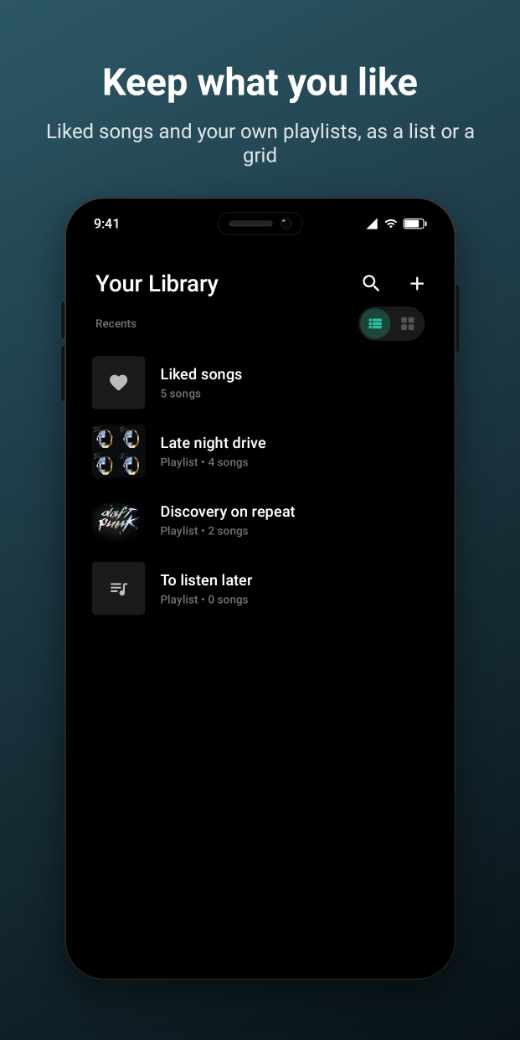
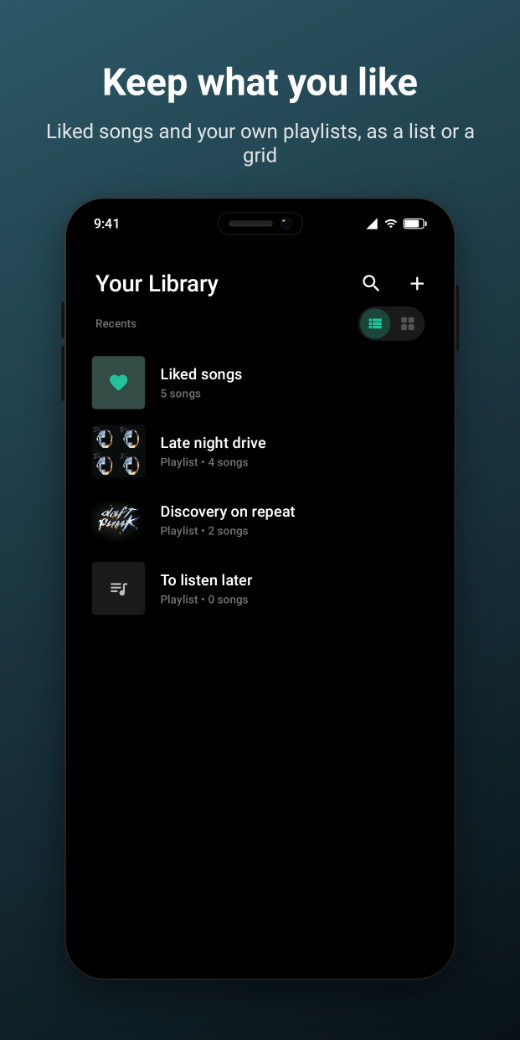
enhancement: colour the liked songs tile and sharpen the grid covers
The liked songs row had a grey heart on the same surface every playlist
uses, so the one item with no cover of its own read as a blank. It now
wears the accent container with the accent heart on it.

LibraryItemArtwork also takes the size it is drawn at: a grid cell is
about three times the width of a list row, and the 200px thumbnail a row
is happy with is visibly soft there, so the cell asks for the 600px
artwork instead.

Changed region(s): [[0.1538, 0.3385, 0.2769, 0.4]]

diff --git a/feature/library/src/main/kotlin/com/pierre/tunescout/feature/library/presentation/component/LibraryItemArtwork.kt b/feature/library/src/main/kotlin/com/pierre/tunescout/feature/library/presentation/component/LibraryItemArtwork.kt
@@ -14,6 +14,7 @@ import androidx.compose.runtime.Composable
 import androidx.compose.ui.Alignment
 import androidx.compose.ui.Modifier
 import androidx.compose.ui.draw.clip
+import androidx.compose.ui.graphics.Color
 import androidx.compose.ui.layout.ContentScale
 import androidx.compose.ui.unit.dp
 import coil3.compose.AsyncImage
@@ -24,6 +25,22 @@ import com.pierre.tunescout.ui.theme.TuneScoutColors
 
 private const val ARTWORK_CORNER_PERCENT = 8
 private const val QUADRANT_COUNT = 4
+private const val ICON_FRACTION = 0.4f
+
+/**
+ * How big the tile is drawn, which is what decides the artwork it asks Apple for: a grid cell is
+ * three times the width of a row, and the thumbnail a row is happy with is visibly soft there.
+ */
+internal enum class LibraryArtworkSize {
+    ROW,
+    CELL,
+    ;
+
+    fun getUrl(artwork: Artwork): String = when (this) {
+        ROW -> artwork.thumbnailUrl
+        CELL -> artwork.mediumUrl
+    }
+}
 
 /**
  * A playlist has no cover of its own, so it wears the first four songs' artwork as a quadrant grid,
@@ -32,33 +49,52 @@ private const val QUADRANT_COUNT = 4
 @Composable
 internal fun LibraryItemArtwork(
     item: LibraryItemUiModel,
+    size: LibraryArtworkSize,
     modifier: Modifier = Modifier,
 ) {
     Box(
         modifier = modifier
             .aspectRatio(1f)
             .clip(RoundedCornerShape(percent = ARTWORK_CORNER_PERCENT))
-            .background(TuneScoutColors.surfaceSubtle),
+            .background(backgroundOf(item)),
         contentAlignment = Alignment.Center,
     ) {
         when (item) {
-            is LibraryItemUiModel.Favorites -> CenteredIcon(isFavorites = true)
-            is LibraryItemUiModel.Playlist -> PlaylistCover(artworks = item.artworks)
+            is LibraryItemUiModel.Favorites -> FavoritesIcon()
+            is LibraryItemUiModel.Playlist -> PlaylistCover(artworks = item.artworks, size = size)
         }
     }
 }
 
 @Composable
-private fun PlaylistCover(artworks: List<Artwork>) {
+private fun backgroundOf(item: LibraryItemUiModel): Color = when (item) {
+    is LibraryItemUiModel.Favorites -> TuneScoutColors.accentContainer
+    is LibraryItemUiModel.Playlist -> TuneScoutColors.surfaceSubtle
+}
+
+@Composable
+private fun PlaylistCover(
+    artworks: List<Artwork>,
+    size: LibraryArtworkSize,
+) {
     when {
-        artworks.isEmpty() -> CenteredIcon(isFavorites = false)
-        artworks.size < QUADRANT_COUNT -> CoverImage(artwork = artworks.first(), modifier = Modifier.fillMaxSize())
-        else -> QuadrantGrid(artworks = artworks)
+        artworks.isEmpty() -> PlaceholderIcon()
+
+        artworks.size < QUADRANT_COUNT -> CoverImage(
+            artwork = artworks.first(),
+            size = size,
+            modifier = Modifier.fillMaxSize(),
+        )
+
+        else -> QuadrantGrid(artworks = artworks, size = size)
     }
 }
 
 @Composable
-private fun QuadrantGrid(artworks: List<Artwork>) {
+private fun QuadrantGrid(
+    artworks: List<Artwork>,
+    size: LibraryArtworkSize,
+) {
     Column(
         modifier = Modifier.fillMaxSize(),
         verticalArrangement = Arrangement.spacedBy(0.dp),
@@ -70,7 +106,7 @@ private fun QuadrantGrid(artworks: List<Artwork>) {
                     .weight(1f),
             ) {
                 pair.forEach { artwork ->
-                    CoverImage(artwork = artwork, modifier = Modifier.weight(1f))
+                    CoverImage(artwork = artwork, size = size, modifier = Modifier.weight(1f))
                 }
             }
         }
@@ -80,10 +116,11 @@ private fun QuadrantGrid(artworks: List<Artwork>) {
 @Composable
 private fun CoverImage(
     artwork: Artwork,
+    size: LibraryArtworkSize,
     modifier: Modifier = Modifier,
 ) {
     AsyncImage(
-        model = artwork.thumbnailUrl,
+        model = size.getUrl(artwork),
         contentDescription = null,
         contentScale = ContentScale.Crop,
         modifier = modifier.fillMaxSize(),
@@ -91,11 +128,21 @@ private fun CoverImage(
 }
 
 @Composable
-private fun CenteredIcon(isFavorites: Boolean) {
+private fun FavoritesIcon() {
     Icon(
-        imageVector = if (isFavorites) TuneScoutIcons.favoriteFilled else TuneScoutIcons.musicList,
+        imageVector = TuneScoutIcons.favoriteFilled,
         contentDescription = null,
-        tint = if (isFavorites) TuneScoutColors.textEmphasis else TuneScoutColors.elementPlaceholder,
-        modifier = Modifier.fillMaxSize(fraction = 0.4f),
+        tint = TuneScoutColors.accent,
+        modifier = Modifier.fillMaxSize(fraction = ICON_FRACTION),
+    )
+}
+
+@Composable
+private fun PlaceholderIcon() {
+    Icon(
+        imageVector = TuneScoutIcons.musicList,
+        contentDescription = null,
+        tint = TuneScoutColors.elementPlaceholder,
+        modifier = Modifier.fillMaxSize(fraction = ICON_FRACTION),
     )
 }

diff --git a/feature/library/src/main/kotlin/com/pierre/tunescout/feature/library/presentation/component/LibraryItemRow.kt b/feature/library/src/main/kotlin/com/pierre/tunescout/feature/library/presentation/component/LibraryItemRow.kt
@@ -41,7 +41,11 @@ internal fun LibraryItemRow(
         horizontalArrangement = Arrangement.spacedBy(TuneScoutSpacing.medium),
         verticalAlignment = Alignment.CenterVertically,
     ) {
-        LibraryItemArtwork(item = item, modifier = Modifier.size(artworkSize))
+        LibraryItemArtwork(
+            item = item,
+            size = LibraryArtworkSize.ROW,
+            modifier = Modifier.size(artworkSize),
+        )
         Column(
             modifier = Modifier.weight(1f),
             verticalArrangement = Arrangement.spacedBy(TuneScoutSpacing.extraSmall),

diff --git a/feature/library/src/main/kotlin/com/pierre/tunescout/feature/library/presentation/component/LibraryItemCell.kt b/feature/library/src/main/kotlin/com/pierre/tunescout/feature/library/presentation/component/LibraryItemCell.kt
@@ -34,7 +34,11 @@ internal fun LibraryItemCell(
             .padding(bottom = TuneScoutSpacing.small),
         verticalArrangement = Arrangement.spacedBy(TuneScoutSpacing.small),
     ) {
-        LibraryItemArtwork(item = item, modifier = Modifier.fillMaxWidth())
+        LibraryItemArtwork(
+            item = item,
+            size = LibraryArtworkSize.CELL,
+            modifier = Modifier.fillMaxWidth(),
+        )
         Text(
             text = name,
             style = MaterialTheme.typography.bodyLarge,

diff --git a/docs/decisions.md b/docs/decisions.md
@@ -60,6 +60,12 @@ now reads the window size — which it may, since it is the one `core` module al
 returns a *bar* for a compact height, which is exactly the phone turned sideways this was meant to
 give a rail. The type is therefore computed from the width and height classes directly.
 
+**A tile asks for the artwork it is drawn at.** A grid cell is about three times the width of a
+list row, and the 200px thumbnail a row is happy with is visibly soft there, so `LibraryItemArtwork`
+takes the size it is being drawn at and picks the thumbnail or the 600px medium from it. The liked
+songs tile wears the accent container with the accent heart on it, so the one row that has no cover
+of its own still reads as one.
+
 **The view mode is a two-segment toggle, not one button.** A single icon showing the mode you would
 switch to never says which one you are looking at, so both are on screen with the current one
 filled.
